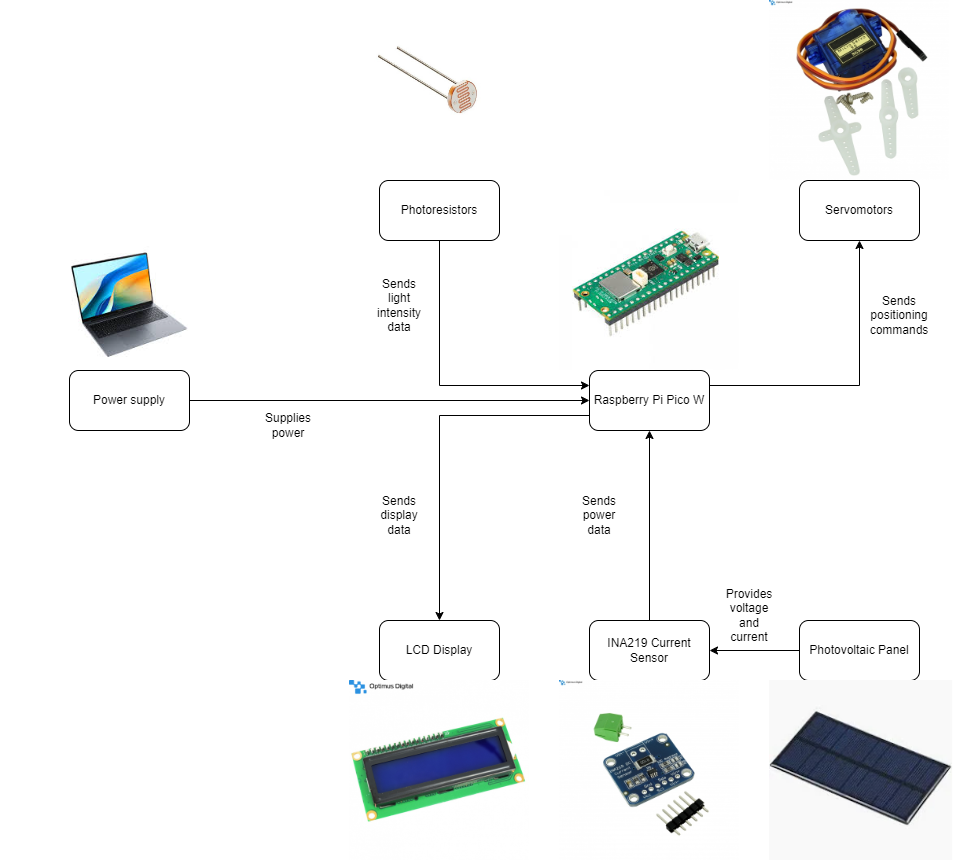
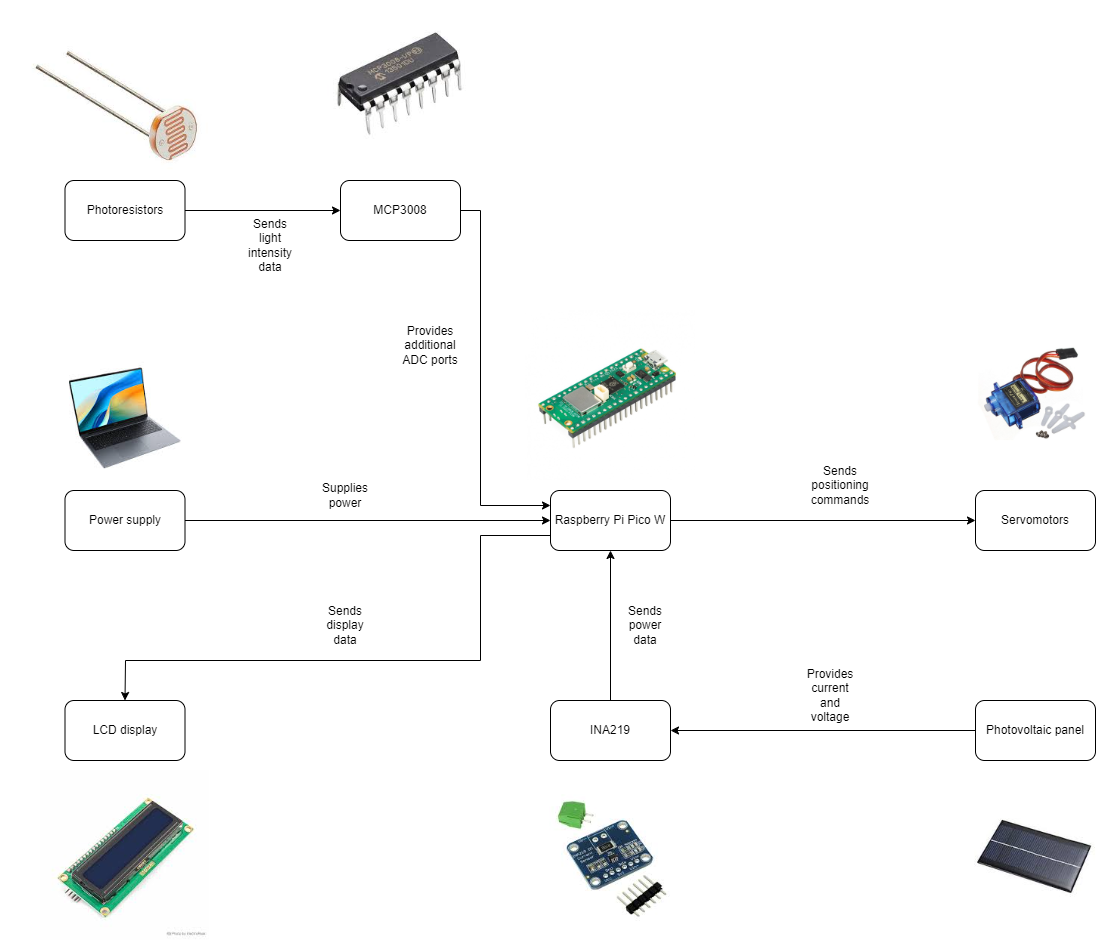
Hardware milestone (#392)
* Updated documentation with new hardware photos and KiCad schematic

* Fixed typo

diff --git a/docs/project/2024/radu_costin.baccela/index.md b/docs/project/2024/radu_costin.baccela/index.md
@@ -21,7 +21,6 @@ I chose the solar tracker project after reviewing a variety of engaging projects
 
 ![Solar Tracker System Diagram](diagram.png)
 
-
 The architecture of the RustFlower consists of the following main components:
 
 - **Control Unit**:
@@ -54,17 +53,29 @@ Connectivity of the main components:
 
 ### Week 6 - 12 May
 
+Ordered all necessary components for the project.
+
 ### Week 7 - 19 May
+
+Uploaded files for 3D printing and received the printed parts.
+Created the KiCad schematic diagram for the project.
+Assembled the hardware components of the project.
 
 ### Week 20 - 26 May
 
 ## Hardware
 
-The primary hardware foundation of the RustFlower project centers around the Raspberry Pi Pico W, a central processing unit known for its low power consumption and ability to manage multiple inputs and outputs simultaneously. Servomotors are integrated to adjust the photovoltaic panel’s orientation for optimal solar alignment, enhancing energy efficiency. Photoresistors serve as the main sensory apparatus, detecting sunlight intensity from various angles to guide the servomotors' adjustments. The photovoltaic panel captures solar energy, central to demonstrating the conversion process. The INA219 current sensor measures voltage and current from the photovoltaic panel, crucial for calculating real-time power production. Finally, a small LCD display provides immediate feedback on the system’s performance, including energy generation and system status.
+The primary hardware foundation of the RustFlower project centers around the Raspberry Pi Pico W, a central processing unit known for its low power consumption and ability to manage multiple inputs and outputs simultaneously. Servomotors are integrated to adjust the photovoltaic panel’s orientation for optimal solar alignment, enhancing energy efficiency. Photoresistors serve as the main sensory apparatus, detecting sunlight intensity from various angles to guide the servomotors' adjustments. The MCP3008 provides additional ADC ports necessary for the project. The photovoltaic panel captures solar energy, central to demonstrating the conversion process. The INA219 current sensor measures voltage and current from the photovoltaic panel, crucial for calculating real-time power production. Finally, a small LCD display provides immediate feedback on the system’s performance, including energy generation and system status.
+
+![First image of the assembled hardware](RustFlower1.jpeg)
+
+![Second image of the assembled hardware](RustFlower2.jpeg)
 
 ### Schematics
 
-Place your KiCAD schematics here.
+KiCad schematic of the RustFlower project:
+
+![KiCAD schematic](RustFlowerKicad.png)
 
 ### Bill of Materials
 
@@ -81,6 +92,7 @@ Place your KiCAD schematics here.
 | [Male-Female Wires](https://www.optimusdigital.ro/ro/fire-fire-mufate/653-fire-colorate-mama-tata-40p-10-cm.html?search_query=Fire+Colorate+Mama-Tata+%2840p%29+10+cm&results=5) | Connects components to the breadboard | [5 RON](https://www.optimusdigital.ro/ro/fire-fire-mufate/653-fire-colorate-mama-tata-40p-10-cm.html?search_query=Fire+Colorate+Mama-Tata+%2840p%29+10+cm&results=5) |
 | [Female-Female Wires](https://www.optimusdigital.ro/ro/fire-fire-mufate/880-fire-colorate-mama-mama-10p-10-cm.html?search_query=Fire+Colorate+Mama-Mama+%2810p%29+10+cm&results=11) | Used for extending connections between components | [3 RON](https://www.optimusdigital.ro/ro/fire-fire-mufate/880-fire-colorate-mama-mama-10p-10-cm.html?search_query=Fire+Colorate+Mama-Mama+%2810p%29+10+cm&results=11) |
 | [Resistors](https://www.optimusdigital.ro/ro/componente-electronice-rezistoare/33-rezistoare-set.html?search_query=Set+de+Rezistoare+0.25W+20+de+valori+cate+20+buc.+fiecare&results=1) | Controls current flow and voltage levels | [15 RON](https://www.optimusdigital.ro/ro/componente-electronice-rezistoare/33-rezistoare-set.html?search_query=Set+de+Rezistoare+0.25W+20+de+valori+cate+20+buc.+fiecare&results=1) |
+| [MCP3008](https://ro.farnell.com/microchip/mcp3008-i-p/10bit-adc-2-7v-8ch-spi-16dip/dp/1627174) | Creates aditional ADC ports | [15 RON](https://ro.farnell.com/microchip/mcp3008-i-p/10bit-adc-2-7v-8ch-spi-16dip/dp/1627174) |
 
 ## Software
 
